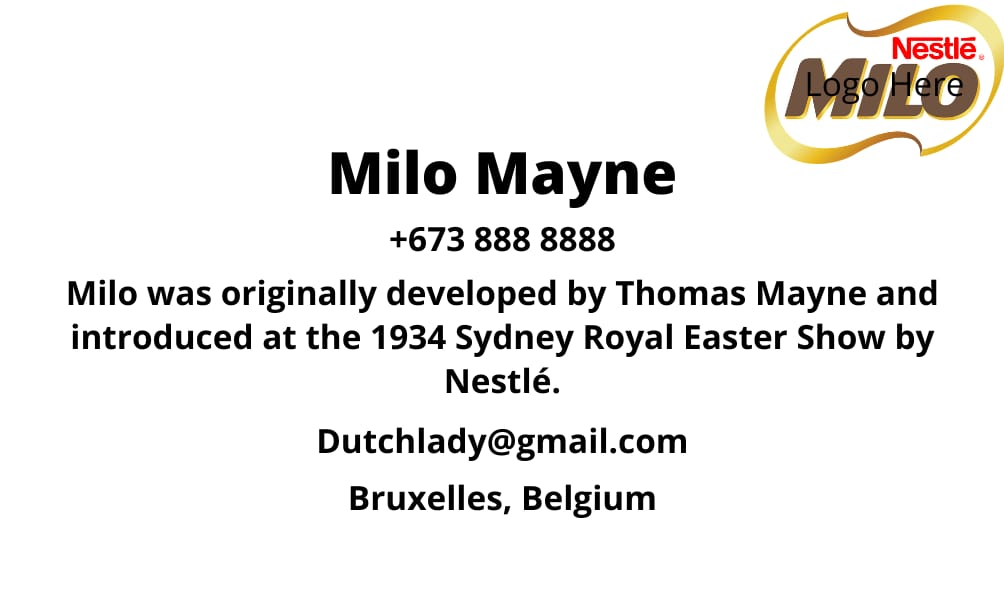
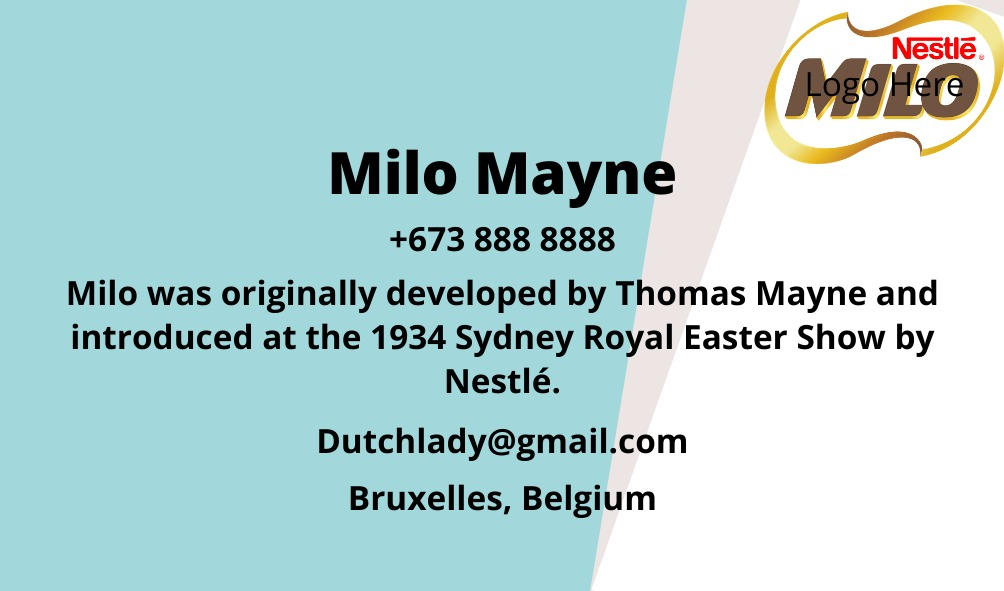
change of design

diff --git a/Corporate-1.html b/Corporate-1.html
@@ -164,6 +164,7 @@
           <a href="MainPage.html"> Home </a>
           <a href="FormalPage.html"> Formal Template </a>
           <a href="InformalPage.html"> Informal Template </a>
+          <a href="CorporatePage.html"> Corporate Template </a>
           <a href="Corporate-2.html"> Corporate Template-2 </a>
         </div>
 
@@ -176,10 +177,13 @@
 
           </div>
         <h1  id="n1" placeholder="Name" class="text"></h1>
-        <h3  id="ctc1" placeholder="Contact Number" class="text"></h3>
-        <h3  id="wording" placeholder="Business  Description" class="text"></h3>
-        <h3 id="e1" placeholder="Email Address" class="text"></h3>
-        <h3 id=add1 placeholder="Address" class="text"></h3>
+        <a  id="ctc1" placeholder="Contact Number" class="text"></a>
+        <br>
+        <a  id="wording" placeholder="Business  Description" class="text"></a>
+        <br>
+        <a id="e1" placeholder="Email Address" class="text"></a>
+        <br>
+        <a id=add1 placeholder="Address" class="text"></a>
 
 
         </div>

diff --git a/Corporate-2.html b/Corporate-2.html
@@ -163,6 +163,7 @@
           <a href="MainPage.html"> Home </a>
           <a href="FormalPage.html"> Formal Template </a>
           <a href="InformalPage.html"> Informal Template </a>
+          <a href="CorporatePage.html"> Corporate Template </a>
           <a href="Corporate-1.html"> Corporate Template-1 </a>
         </div>
       </div>

diff --git a/Corporate-1.css b/Corporate-1.css
@@ -19,14 +19,15 @@ margin-top: 100px;
 }
 
 .container{
-  background: #B7CEEC;
   height: 395px;
   width: 550px;
   border: 2px solid black;
-
 }
 
-
+.container{
+  background-image: url("Card-1bg.jpeg");
+  background-size:100% 100%;
+}
 
 
 .maincontainer{

diff --git a/Corporate-2.css b/Corporate-2.css
@@ -26,6 +26,11 @@ margin-top: 100px;
 
 }
 
+.container{
+  background-image: url("Card-2bg.jpeg");
+  background-size:100% 100%;
+}
+
 .maincontainer{
   display: flex;
   flex: wrap;
